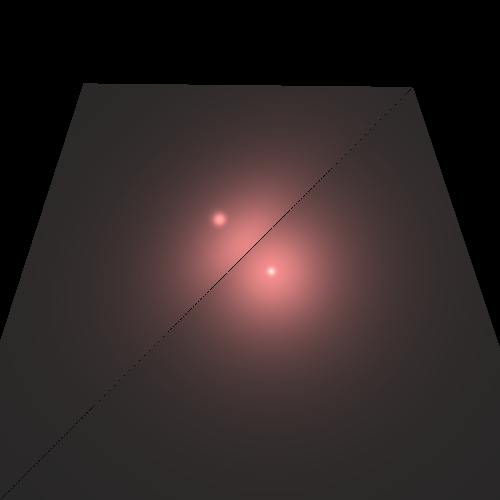
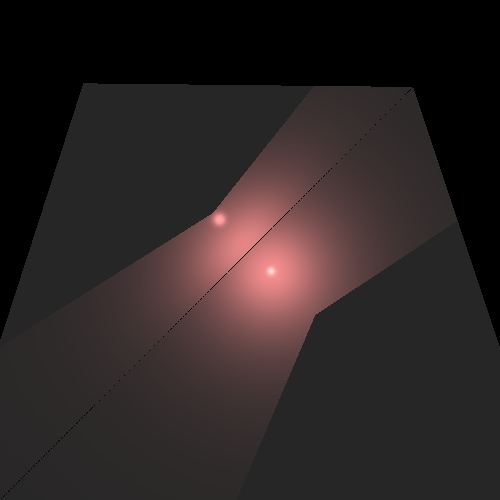
ex7

Changed region(s): [[0.54, 0.51, 0.81, 0.81], [0.24, 0.24, 0.57, 0.54]]

diff --git a/IME5780-E1-5208-8702/src/renderer/Render.java b/IME5780-E1-5208-8702/src/renderer/Render.java
@@ -19,6 +19,10 @@ import static primitives.Util.alignZero;
 public class Render {
     private ImageWriter _imageWriter;
     private Scene _scene;
+    /**
+     * const to use with move rays head for shadow rays
+     */
+    private static final double DELTA = 0.1;
 
     // ********************** Constructors ********************** //
 
@@ -31,6 +35,23 @@ public class Render {
     public Render(ImageWriter imageWriter, Scene scene) {
         this._imageWriter = imageWriter;
         this._scene = scene;
+    }
+
+    /**
+     * check if have shadow or not
+     *
+     * @param l  light vector
+     * @param n  normal vector
+     * @param gp geoPoint
+     * @return pos/neg
+     */
+    private boolean unshaded(Vector l, Vector n, GeoPoint gp, LightSource lightSource) {
+        Vector lightDirection = l.scale(-1); // d from point to light source
+        Vector delta = n.scale(n.dotProduct(lightDirection) > 0 ? DELTA : -DELTA);
+        Point3D point = gp.point.add(delta);
+        Ray lightRay = new Ray(point, lightDirection);
+        List<GeoPoint> intersections = _scene.getGeometries().findIntersections(lightRay);
+        return intersections == null; //return true if not have shadow
     }
 
     /**
@@ -81,8 +102,7 @@ public class Render {
                 Vector l = lightSource.getL(_intersection.point);
                 double nl = alignZero(n.dotProduct(l));
                 double nv = alignZero(n.dotProduct(v));
-
-                if (nl * nv > 0) {
+                if (nl * nv > 0 && unshaded(l, n, _intersection, lightSource)) {
                     Color ip = lightSource.getIntensity(_intersection.point);
                     result = result.add(
                             calcDiffusive(kd, nl, ip),
@@ -154,8 +174,8 @@ public class Render {
      */
     private Color calcSpecular(double ks, Vector l, Vector n, double nl, Vector v, int nShininess, Color ip) {
         double p = nShininess;
-        Vector R = l.add(n.scale(-2 * nl));
-        double minusVR = -alignZero(R.dotProduct(v));
+        Vector r = l.add(n.scale(-2 * nl));
+        double minusVR = -alignZero(r.dotProduct(v));
         if (minusVR <= 0)
             return Color.BLACK;
         return ip.scale(ks * Math.pow(minusVR, p));

diff --git a/IME5780-E1-5208-8702/src/geometries/Polygon.java b/IME5780-E1-5208-8702/src/geometries/Polygon.java
@@ -26,6 +26,8 @@ public class Polygon extends Geometry {
      * Polygon constructor based on vertices list. The list must be ordered by edge
      * path. The polygon must be convex.
      *
+     * @param material material the material of the Polygon
+     * @param emission emission the own color of the Polygon
      * @param vertices list of vertices according to their order by edge path
      * @throws IllegalArgumentException in any case of illegal combination of
      *                                  vertices:
@@ -43,7 +45,8 @@ public class Polygon extends Geometry {
      *                                  <li>The polygon is concave (not convex></li>
      *                                  </ul>
      */
-    public Polygon(Point3D... vertices) {
+    public Polygon(Material material, Color emission, Point3D... vertices) {
+        super(emission, material);
         if (vertices.length < 3)
             throw new IllegalArgumentException("A polygon can't have less than 3 vertices");
         _vertices = List.of(vertices);
@@ -83,17 +86,12 @@ public class Polygon extends Geometry {
     }
 
     /**
-     * polygon constructor with color and material
+     * polygon constructor without color and material
      *
-     * @param material material
-     * @param emission emission
      * @param vertices vertices
      */
-    public Polygon(Material material, Color emission, Point3D... vertices) {
-        this(vertices);
-        _material = material;
-        _emission = emission;
-
+    public Polygon(Point3D... vertices) {
+        this(Color.BLACK, vertices);
     }
 
     /**

diff --git a/IME5780-E1-5208-8702/src/geometries/Intersectable.java b/IME5780-E1-5208-8702/src/geometries/Intersectable.java
@@ -10,7 +10,20 @@ import java.util.Objects;
  * interface Intersectable for all intersectable objects
  */
 public interface Intersectable {
-    List<GeoPoint> findIntersections(Ray ray);
+
+    default List<GeoPoint> findIntersections(Ray ray) {
+        return findIntersections(ray, Double.POSITIVE_INFINITY);
+    }
+
+    /**
+     * filter shadow not in the other side
+     *
+     * @param ray ray
+     * @param max max of the dist
+     * @return the geo point closest
+     */
+    List<GeoPoint> findIntersections(Ray ray, double max);
+
 
     /**
      * static class Geo Point
@@ -40,8 +53,7 @@ public interface Intersectable {
             if (o == null) return false;
             if (!(o instanceof GeoPoint)) return false;
             GeoPoint geoPoint = (GeoPoint) o;
-            return Objects.equals(geometry, geoPoint.geometry) &&
-                    Objects.equals(point, geoPoint.point);
+            return geometry == geoPoint.geometry && point.equals(geoPoint.point);
         }
 
     }

diff --git a/IME5780-E1-5208-8702/src/elements/PointLight.java b/IME5780-E1-5208-8702/src/elements/PointLight.java
@@ -33,15 +33,19 @@ public class PointLight extends Light implements LightSource {
     // ****************************** Overrides *****************************//
 
     @Override
+    public double getDistance(Point3D point) {
+        return _position.distance(point);
+    }
+
+    @Override
     public Color getIntensity(Point3D p) {
         double dSqr = p.distanceSquared(_position);
         double d = Math.sqrt(dSqr);
-        return (_intensity.reduce(_kC + _kL * d + _kQ * dSqr));
+        return _intensity.reduce(_kC + _kL * d + _kQ * dSqr);
     }
 
     @Override
     public Vector getL(Point3D p) {
-
         return p.subtract(_position).normalize();
     }
 }

diff --git a/IME5780-E1-5208-8702/src/elements/LightSource.java b/IME5780-E1-5208-8702/src/elements/LightSource.java
@@ -10,6 +10,14 @@ import primitives.Vector;
 public interface LightSource {
 
     /**
+     * get the distance between the point and light source
+     *
+     * @param point point
+     * @return d from point to light source
+     */
+    public double getDistance(Point3D point);
+
+    /**
      * get intensity func
      *
      * @param p point
@@ -25,5 +33,6 @@ public interface LightSource {
      * @return vector color
      */
     public Vector getL(Point3D p);
+
 
 }

diff --git a/IME5780-E1-5208-8702/src/elements/DirectionalLight.java b/IME5780-E1-5208-8702/src/elements/DirectionalLight.java
@@ -26,6 +26,11 @@ public class DirectionalLight extends Light implements LightSource {
     // ****************************** Overrides *****************************//
 
     @Override
+    public double getDistance(Point3D point) {
+        return Double.POSITIVE_INFINITY;
+    }
+
+    @Override
     public Color getIntensity(Point3D p) {
         return super.getIntensity();
     }
